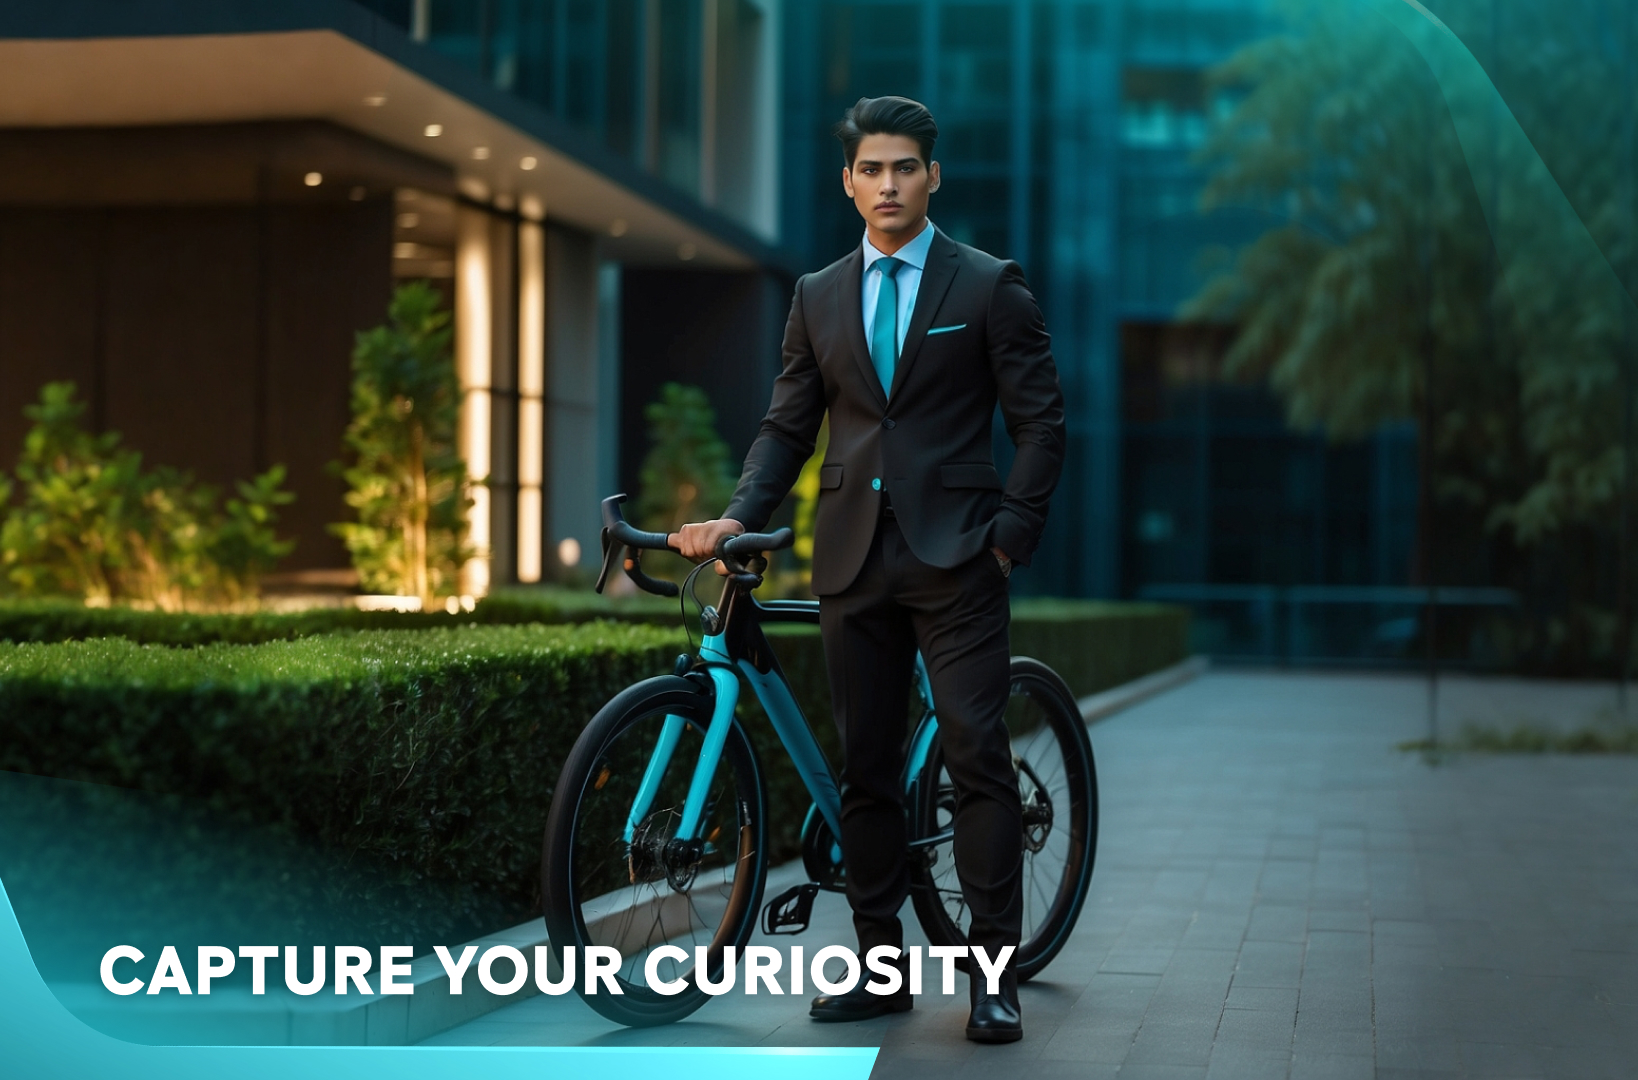
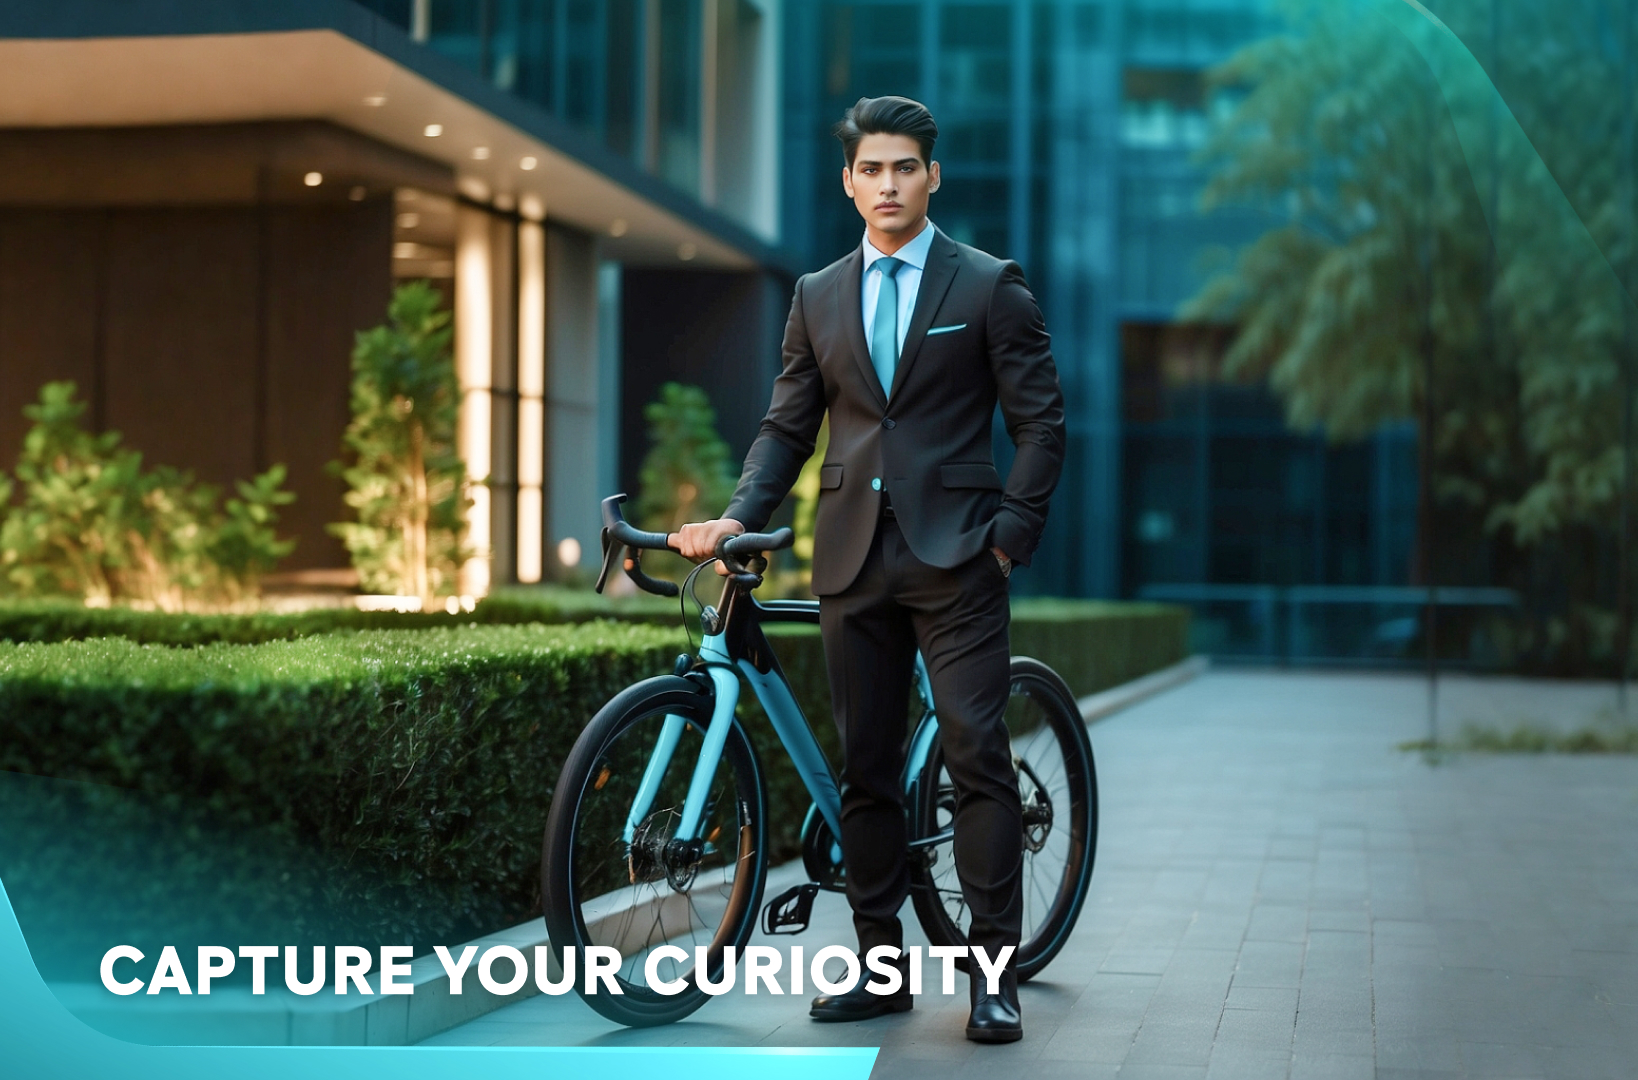
upd result

diff --git a/app/iqos/result/page.js b/app/iqos/result/page.js
@@ -214,7 +214,7 @@ export default function Result() {
                         </div>
                     </div>
                     <div className='absolute top-0 left-0' ref={(el) => (componentRef = el)}>
-                        <div className={`relative w-[98%] flex`}>
+                        <div className={`relative w-[100%] flex`}>
                             <Image src={imageResultAI}  width={1080} height={1638} alt='Zirolu' className='relative block w-full'></Image>
                             {/* <Image src={imageResultAI}  width={598} height={1206} alt='Zirolu' className='relative block w-1/3'></Image>
                             <Image src={imageResultAI2}  width={598} height={1206} alt='Zirolu' className='relative block w-1/3'></Image>

diff --git a/app/iqos/style/page.js b/app/iqos/style/page.js
@@ -35,7 +35,7 @@ export default function Register() {
         if(character == 'cowok'){
             let randomGambar = getRandomInt(1, 15);
             urlGambar = 'https://ai.zirolu.id/iqos/style/iqos-m-'+randomGambar+'.jpeg';
-            // urlGambar = 'https://ai.zirolu.id/iqos/style/iqos-m-'+14+'.jpeg';
+            // urlGambar = 'https://ai.zirolu.id/iqos/style/iqos-m-'+7+'.jpeg';
             console.log(randomGambar)
 
             if (typeof localStorage !== 'undefined') {

diff --git a/app/iqos/cam/page.js b/app/iqos/cam/page.js
@@ -162,9 +162,9 @@ export default function Cam() {
         // console.log(videoRef)
         // videoRef.src=''
         // STOP CAM
-        streamCam.getTracks().forEach(function(track) {
-            track.stop();
-        });
+        // streamCam.getTracks().forEach(function(track) {
+        //     track.stop();
+        // });
     }
 
     const reset2 = () => {
